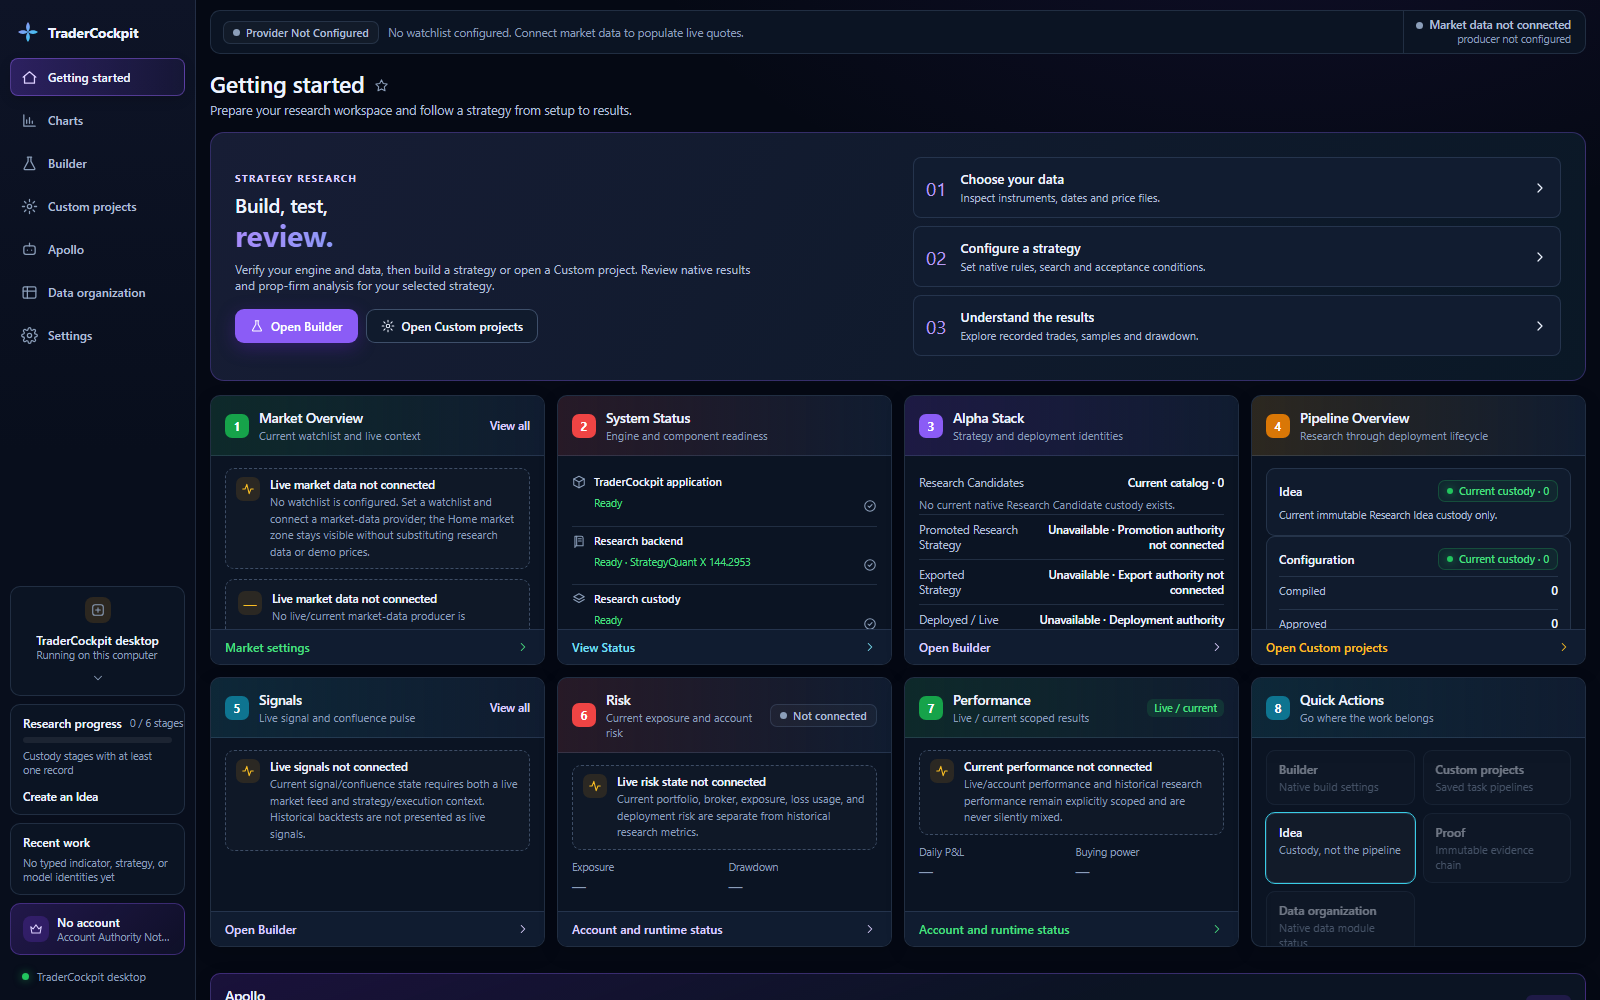
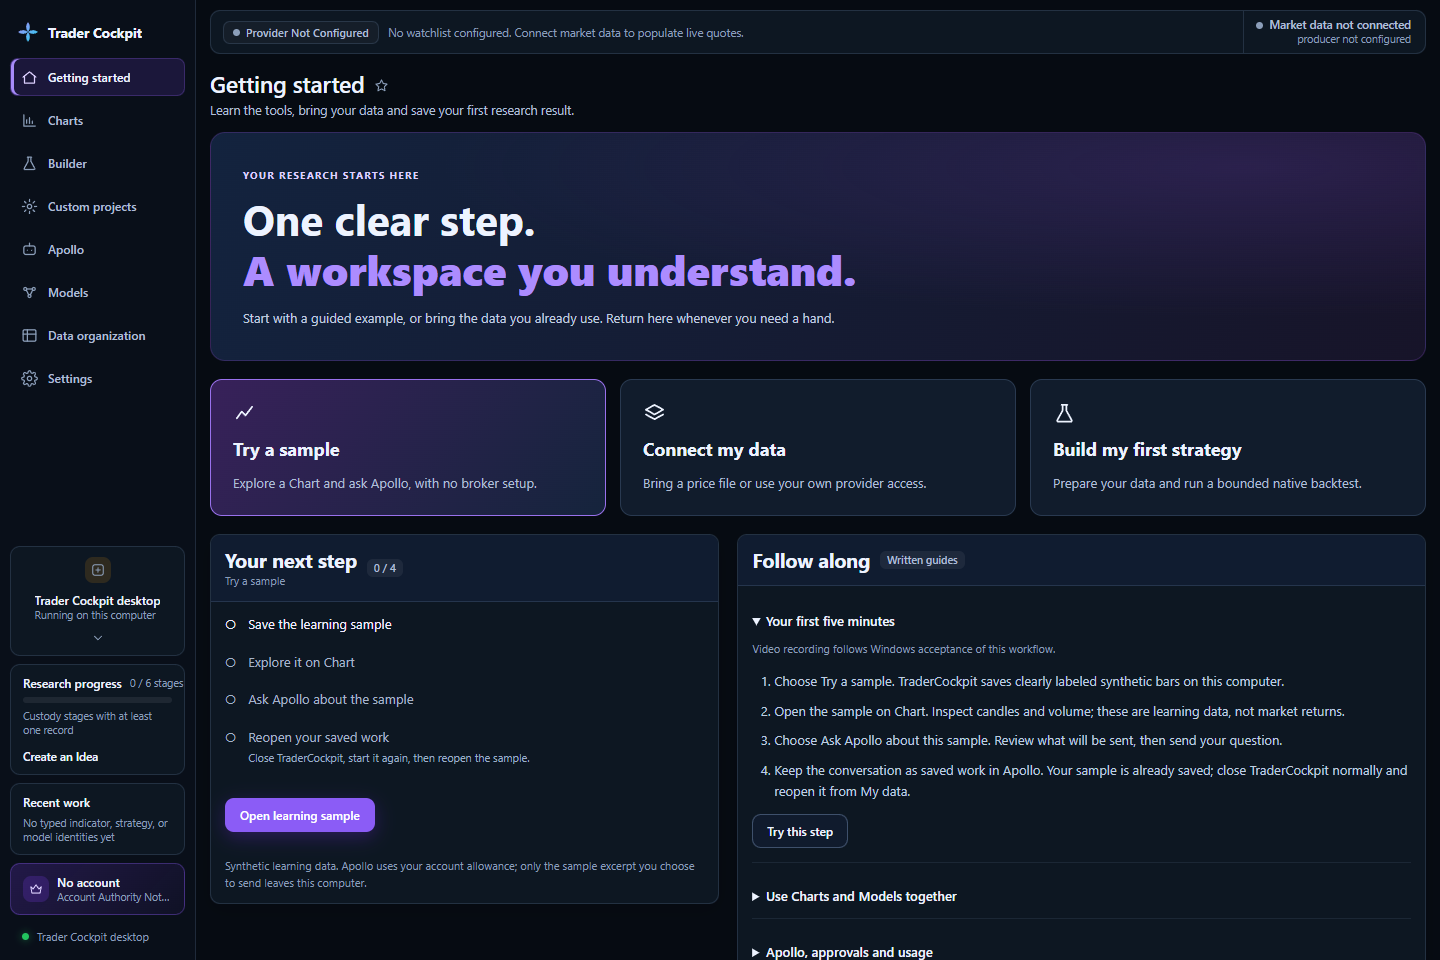
fix(site): refresh current Guided Home capture

diff --git a/docs/pricing/index.html b/docs/pricing/index.html
@@ -5,7 +5,7 @@
 <link rel="canonical" href="https://javin23863.github.io/tradercockpit/pricing/"><link rel="stylesheet" href="../assets/site-v2.css"><link rel="stylesheet" href="../assets/site-visual-depth.css"><link rel="stylesheet" href="../assets/home-v3.css"></head>
 <body class="home-page"><a class="skip-link" href="#main">Skip to content</a><nav class="site-nav" aria-label="Primary"><div class="nav-inner"><a class="brand" href="../index.html"><span class="brand-mark" aria-hidden="true"></span>TraderCockpit</a><div class="nav-links"><a href="../research-lab.html">Research Lab</a><a href="../learn/">Learn</a><a href="../docs/">Docs</a><a href="../methods/">Methods</a><a href="./" aria-current="page">Pricing</a><a href="../support/">Support</a></div></div></nav>
 <main id="main" tabindex="-1"><section class="article-hero"><div class="shell article-hero-inner"><div class="breadcrumb"><a href="../index.html">Home</a><span>/</span><span>Pricing & Access</span></div><span class="eyebrow">Pricing & access</span><h1>TraderCockpit Monthly. One plan, one access path.</h1><p>TraderCockpit Monthly is the current subscription plan. Join the waitlist for access updates; checkout will appear when subscriptions are available.</p><div class="article-meta"><span>Monthly USD</span><span>Windows desktop</span><span id="pricing-product-state">Checking availability</span></div></div></section>
-<section class="section"><div class="shell"><div class="pricing-stage" id="pricing-current-tier"><article class="price-card"><span class="price-chip" data-commerce-state>Billing status loading</span><h2 data-commerce-plan>TraderCockpit Monthly</h2><div class="price"><strong data-commerce-price>—</strong><span>/ month</span></div><div class="price-facts"><div class="price-fact"><b>Billing</b><span>One recurring monthly USD price</span></div><div class="price-fact"><b>Availability</b><span>Waitlist open</span></div><div class="price-fact"><b>Access</b><span>Subscription includes desktop access</span></div><div class="price-fact"><b>Support</b><span>Subscription support details appear with checkout</span></div></div><div class="checkout-lock"><div id="pricing-checkout-unavailable"><strong>Join the TraderCockpit waitlist.</strong><span>We will publish checkout here when subscriptions open.</span></div><a class="quant-action checkout-waitlist" href="../#public-status">Join waitlist</a><button class="checkout-button" type="button" data-commerce-checkout hidden disabled aria-describedby="pricing-checkout-unavailable" title="Checkout becomes available when subscriptions open">Secure checkout</button></div></article><aside class="price-context"><span class="quant-kicker">Inside TraderCockpit</span><h2>Inside TraderCockpit</h2><p>Move between strategy research, charts, Builder, Custom Projects, Apollo, data organization, settings, and learning without leaving the cockpit.</p><figure class="pricing-product-preview"><img src="../assets/desktop-current.png" alt="Current TraderCockpit desktop interface" width="1600" height="1000" loading="lazy" decoding="async"><figcaption>Current desktop interface · real product capture</figcaption></figure><div class="surface-list"><span>Getting started</span><span>Charts</span><span>Builder</span><span>Custom projects</span><span>Apollo</span><span>Data organization</span><span>Settings</span><span>Help & Learning</span></div><a class="quant-action" href="../#product" style="margin-top:1rem">See the current desktop capture →</a></aside></div></div></section>
+<section class="section"><div class="shell"><div class="pricing-stage" id="pricing-current-tier"><article class="price-card"><span class="price-chip" data-commerce-state>Billing status loading</span><h2 data-commerce-plan>TraderCockpit Monthly</h2><div class="price"><strong data-commerce-price>—</strong><span>/ month</span></div><div class="price-facts"><div class="price-fact"><b>Billing</b><span>One recurring monthly USD price</span></div><div class="price-fact"><b>Availability</b><span>Waitlist open</span></div><div class="price-fact"><b>Access</b><span>Subscription includes desktop access</span></div><div class="price-fact"><b>Support</b><span>Subscription support details appear with checkout</span></div></div><div class="checkout-lock"><div id="pricing-checkout-unavailable"><strong>Join the TraderCockpit waitlist.</strong><span>We will publish checkout here when subscriptions open.</span></div><a class="quant-action checkout-waitlist" href="../#public-status">Join waitlist</a><button class="checkout-button" type="button" data-commerce-checkout hidden disabled aria-describedby="pricing-checkout-unavailable" title="Checkout becomes available when subscriptions open">Secure checkout</button></div></article><aside class="price-context"><span class="quant-kicker">Inside TraderCockpit</span><h2>Inside TraderCockpit</h2><p>Move between strategy research, charts, Builder, Custom Projects, Apollo, data organization, settings, and learning without leaving the cockpit.</p><figure class="pricing-product-preview"><img src="../assets/desktop-current.png" alt="Current TraderCockpit desktop interface" width="1440" height="960" loading="lazy" decoding="async"><figcaption>Current desktop interface · real product capture</figcaption></figure><div class="surface-list"><span>Getting started</span><span>Charts</span><span>Builder</span><span>Custom projects</span><span>Apollo</span><span>Models</span><span>Data organization</span><span>Settings</span></div><a class="quant-action" href="../#product" style="margin-top:1rem">See the current desktop capture →</a></aside></div></div></section>
 <section class="section"><div class="shell content-grid"><article class="content-panel"><span class="eyebrow">Account access</span><h2>How access works</h2><ol><li>Choose TraderCockpit Monthly when checkout opens.</li><li>Sign in with the account used for the subscription.</li><li>Your desktop access follows the active subscription.</li><li>Renewal and cancellation status stay tied to the same account.</li></ol><p class="notice">Checkout is currently closed. Join the waitlist to be notified when subscriptions open.</p></article><aside class="side-panel"><h2>Availability</h2><p id="pricing-state-detail" class="micro">Checking availability?</p><a class="deep-link" href="../updates/">Open Updates →</a><a class="deep-link" href="../trust/">Read Trust →</a></aside></div></section>
 <section class="section"><div class="shell"><div class="section-head"><span class="eyebrow">Before paying</span><h2>Know what the evidence can and cannot tell you.</h2><p>TraderCockpit is research software. No subscription can make a historical result predictive or guarantee future returns.</p></div><div class="card-grid"><article class="depth-card"><span class="kicker">Evidence</span><h3>Research is not a promise.</h3><p>Backtests, holdouts, robustness checks, and Monte Carlo can challenge a strategy story under stated assumptions.</p><a class="deep-link" href="../trust/">Trust & evidence →</a></article><article class="depth-card"><span class="kicker">Learning</span><h3>Learn the methods.</h3><p>Use the public Concepts, Methods, How-Tos, and Examples to understand what the diagnostics can and cannot tell you.</p><a class="deep-link" href="../learn/start-here.html">Start learning →</a></article><article class="depth-card"><span class="kicker">Status</span><h3>Check availability.</h3><p>Updates shows the latest availability, platform, and access information.</p><a class="deep-link" href="../updates/">Current status →</a></article></div></div></section>
 </main><footer><div class="footer-inner"><div>TraderCockpit Pricing & Access</div><div class="footer-links"><a href="../support/">Support</a><a href="../trust/privacy.html">Privacy</a><a href="../updates/">Updates</a></div></div></footer><script src="../assets/site-search.js" defer></script><script src="../assets/home-v3.js" defer></script><script type="module">

diff --git a/docs/index.html b/docs/index.html
@@ -51,10 +51,10 @@
   </div>
 </div></section>
 <section class="quant-section quant-section-alt" id="product"><div class="shell">
-  <div class="quant-section-head"><div><span class="quant-kicker">TraderCockpit desktop</span><h2>Research, validation, and strategy workflows in one cockpit.</h2></div><p>See the TraderCockpit desktop workflow across research, charts, Builder, Custom Projects, Apollo, data organization, settings, and learning.</p></div>
+  <div class="quant-section-head"><div><span class="quant-kicker">TraderCockpit desktop</span><h2>Research, validation, and strategy workflows in one cockpit.</h2></div><p>See the TraderCockpit desktop workflow across research, charts, Builder, Custom Projects, Apollo, Models, data organization, settings, and guided learning.</p></div>
   <div class="preview-stage">
-    <figure class="preview-frame"><img src="assets/desktop-current.png" width="1600" height="1000" loading="eager" alt="Current TraderCockpit desktop home showing Getting started, Charts, Builder, Custom projects, Apollo, Data organization, Settings, and current research/status cards."><figcaption class="micro">Current TraderCockpit application surface - captured 2026-09-11.</figcaption></figure>
-    <div class="preview-badge badge-one"><b class="ok">Current product surface</b><span>Seven primary desktop destinations</span></div>
+    <figure class="preview-frame"><img src="assets/desktop-current.png" width="1440" height="960" loading="eager" alt="Current TraderCockpit Guided Home showing Getting started, Charts, Builder, Custom projects, Apollo, Models, Data organization, Settings, and the three resumable learning journeys."><figcaption class="micro">Current TraderCockpit Guided Home - captured 2026-09-15.</figcaption></figure>
+    <div class="preview-badge badge-one"><b class="ok">Current product surface</b><span>Eight primary desktop destinations</span></div>
     <div class="preview-badge badge-two"><b class="risk">Evidence-aware states</b><span>Missing evidence stays visible instead of becoming a fabricated value</span></div>
   </div>
 </div></section>
